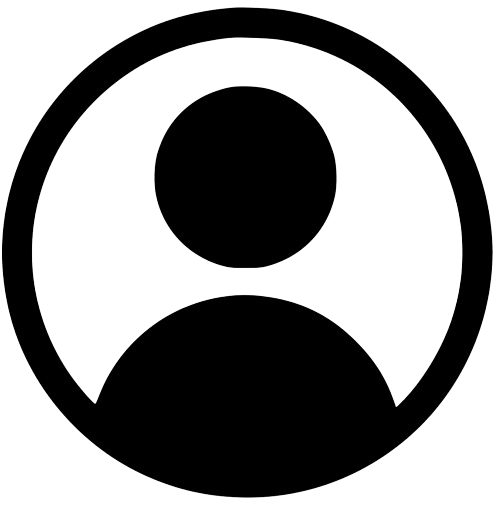
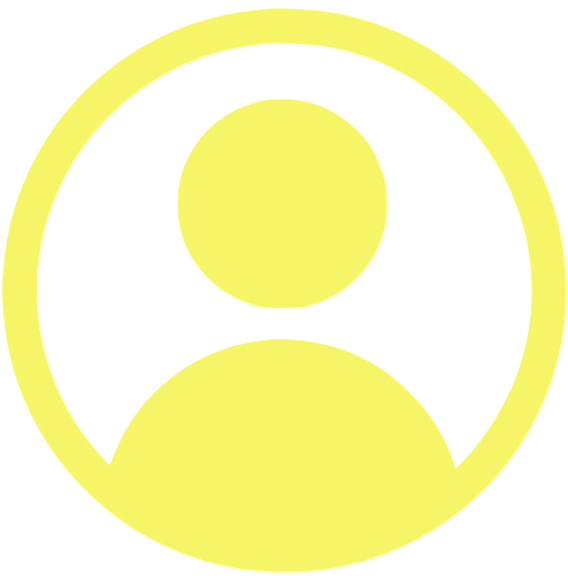
Mise a jour du css

diff --git a/styles.css b/styles.css
@@ -1,8 +1,8 @@
 body {
     font-family: 'Arial', sans-serif;
-    color: #010102;
+    color: #ffffff;
     line-height: 1.6;
-    background-color: #f3d6ab;
+    background-color: #d1fdd3;
 }
 
 header{
@@ -13,15 +13,15 @@ header{
 .logo {
     width:300px;
     height:300px;
-    filter: brightness(120%)
+    filter: brightness(100%)
 }
 
 
 
 .article {
     margin: 20px;
-    background-color: #fff;
     padding: 20px;
+    background-color: #5bce6b;
     border-radius: 8px;
     box-shadow: 0 10px rgba(0, 0, 0, 0.1);
     text-align: center;

diff --git a/index.php b/index.php
@@ -13,7 +13,7 @@
             <img src="utilisateur1.png" alt="afiicher logo utilisateur" class="logo">
         </header>
         <main>
-            <form action="validation.php" method="POST" id="article">
+            <form action="validation.php" method="POST" class="article">
                 <p>
                     <label for="mail">Identifiant d'utilisateur : </label>
                     <input type="mail" id="nom" name="nom"><br>
@@ -28,12 +28,10 @@
                         echo $message;
                     }
                     ?>
+                    <a href="validation.php"><button>Se connecter</button></a>
+                    <a href="creation_compte.php"><button>Créer un compte</button></a>
                 </p> 
             </form>
-            <p>
-                <a href="validation.php"><button>Se connecter</button></a>
-                <a href="creation_compte.php"><button>Créer un compte</button></a>
-            </p>
         </main>
     </body>
 </html>
